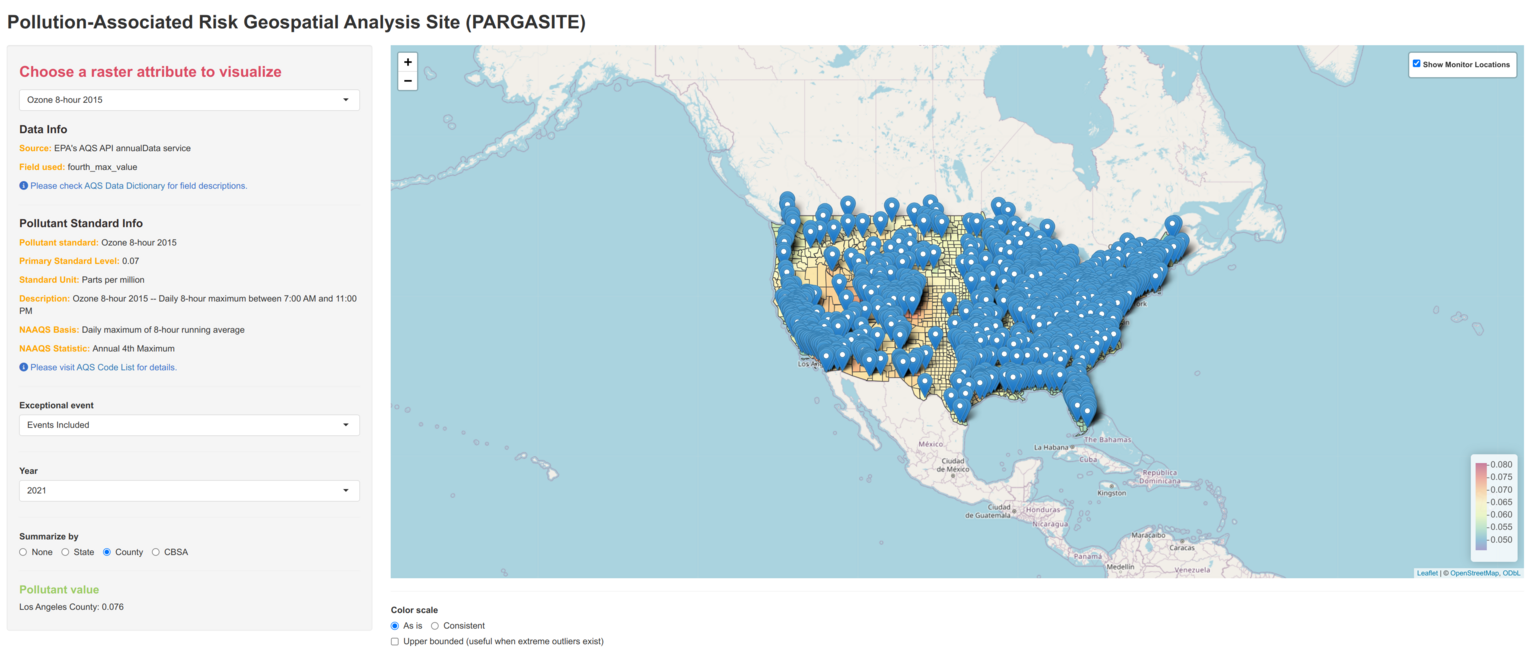
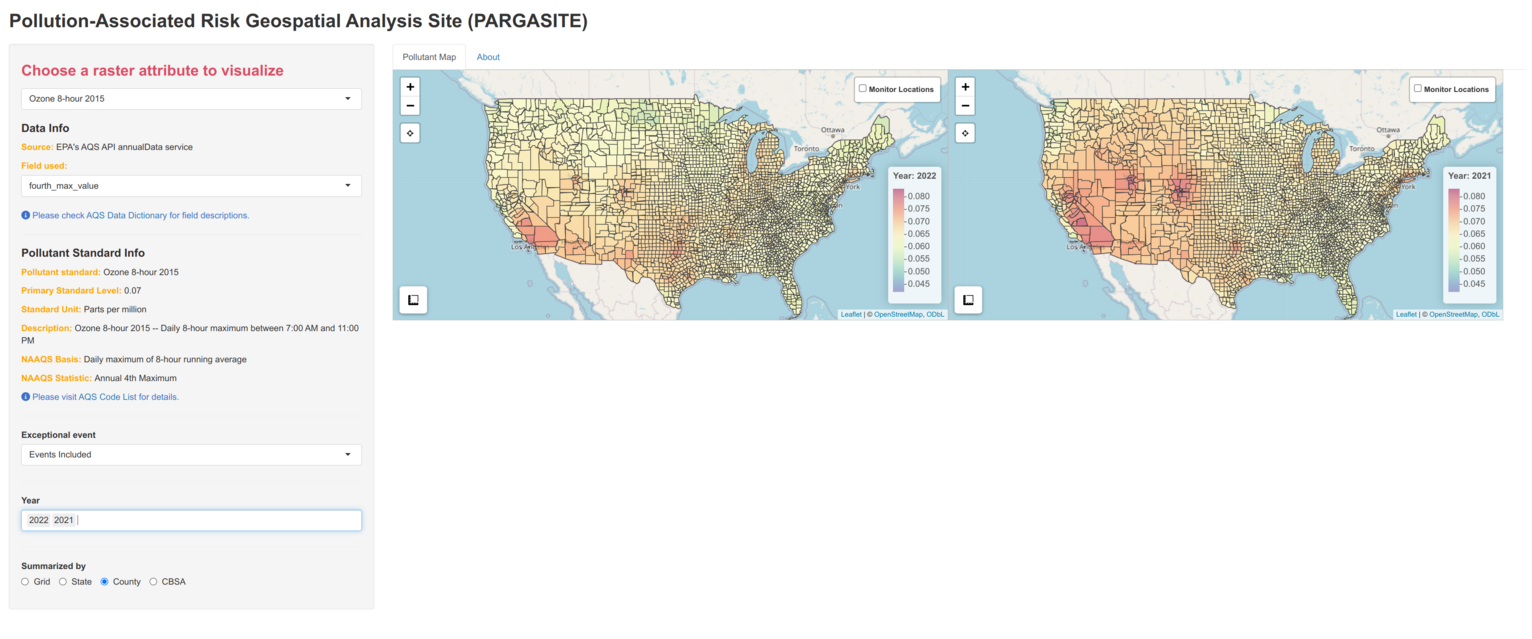
Vignette and README update

diff --git a/README.md b/README.md
@@ -1,20 +1,20 @@
 # PARGASITE
 
-Pollution-Associated Risk Geospatial Analysis SITE (PARGASITE) is an R package
-to estimate and visualize major pollutant levels (CO, NO2, SO2, Ozone, PM2.5 and
-PM10) covering the conterminous United States at user-defined time ranges. It
-provides a function that automatically retrieves pollutant data via the
-Environmental Protection Agency’s (EPA) Air Quality System (AQS) API service,
+Pollution-Associated Risk Geospatial Analysis Site (PARGASITE) offers tools to
+estimate and visualize levels of major pollutants (CO, NO2, SO2, Ozone, PM2.5
+and PM10) across the conterminous United States for user-defined time ranges. It
+helps users to automatically retrieves pollutant data from the Environmental
+Protection Agency’s (EPA) Air Quality System (AQS) API service. PARGASITE
 filters the data by exceptional event (e.g., wildfire) status, performs spatial
 interpolations, and summarizes pollutant concentrations by geographic boundaries
-including State, County, and Core-Based Statistical Area (CBSA). It also offers
-a Shiny application to interactively visualize pollutant levels and to easily
-check the air quality status of a given location over time relative to the level
-of the National Ambient Air Quality Standards (NAAQS).
+including state, county, and Core-Based Statistical Area (CBSA). It also offers
+a Shiny application for interactively visualization of pollutant levels and
+easily checking of air quality status for a given location over time relative to
+the National Ambient Air Quality Standards (NAAQS).
 
-The PARGASITE package has been re-designed due to the deprecation of the rgdal
-package, and thus, it is not compatible with the previous version. Please check
-the v1 branch if you want to use the old interface.
+The PARGASITE package has been redesigned due to the deprecation of the rgdal
+package. As a result, it is not compatible with the previous version. If you
+want to use the old interface, please check out the v1 branch.
 
 # Getting Started
 
@@ -22,9 +22,9 @@ the v1 branch if you want to use the old interface.
 
 In R session, please type
 
-``` r
-## Install from Github
-remotes::install_github("HimesGroup/pargasite")
+```{r setup}
+## Install from CRAN
+install.packages("pargasite")
 
 ## Load pargasite pacakge
 library(pargasite)
@@ -41,7 +41,10 @@ API](https://aqs.epa.gov/aqsweb/documents/data_api.html), users need to register
 API service first. Please check the raqs package to create an account and set up
 email and key for the current R session.
 
-``` r
+```{r api service}
+if (!requireNamespace("raqs", quietly = TRUE)) {
+  install.packages("raqs")
+}
 library(raqs)
 
 ## Please use your eamil address to create an account
@@ -58,7 +61,7 @@ based on pollutant standards, creates regular grid covering the conterminous US,
 and performs spatial interpolation on the grid. For spatial interpolation, the
 AQS data is projected to EPSG:6350 (NAD83 CONUS Albers).
 
-``` r
+```{r create pargasite data}
 ## Ozone concentrations based on 20km x 20km grid over the conterminous US
 ozone20km <- create_pargasite_data(
   pollutant = "Ozone", event_filter = "Events Included", year = 2021:2022,
@@ -77,7 +80,7 @@ for the details.
 
 You could also create other pollutant data cubes and combine them.
 
-``` r
+```{r combine data cubes}
 ## CO concentrations
 co20km <- create_pargasite_data(
   pollutant = "CO", event_filter = "Events Included", year = 2021:2022,
@@ -92,32 +95,31 @@ combined <- c(ozone20km, co20km)
 
 To visualize a pollutant data cube, launch the shiny app with
 
-``` r
-run_pargasite(combined, summarize_by = c("state", "county", "cbsa"))
+```{r, launch shiny app}
+run_pargasite(combined)
 ```
-
 The system's default web browser will be launched automatically after the app is
 started.
 
-On the left panel, a user can choose a pollutant attribute, event filter, and
-year to visualize. Relevant pollutant standard information will be provided. A
-pollutant value will be printed at the bottom left in response to a mouse click
-event for a specific location. For the color scale menu, “As is” selects colors
-based on the currently selected data, whereas “Consistent” picks ones that have
-the same range across different times and event filters for easy comparisons.
-The “Upper bounded” checkbox can be useful when color distortion is expected due
-to extreme outliers.
+The left panel allows users to select a pollutant attribute, filter events, and
+choose years for visualization. Relevant pollutant standard information will
+also be provided.
 
-![](vignettes/pargasite1.png)
+![](vignettes/pargasite1.png){width=100%}
 
-We are often interested in pollutant levels by geographic boundaries. A user can
-display summarized values using the "summarize_by" app menu, which provides
-areal mean either by State, County, or Core Based Statistical Area (CBSA).
+<br/>
 
-![](vignettes/pargasite2.png)
+Users can summarize data by geographical area using the "Summarized By" menu in
+the app. This menu allows selection of areal means for states, counties, or Core
+Based Statistical Areas (CBSAs).
 
-In addition, clicking "Show Monitor Locations" will returns all monitors operated
-in a given year.
+![](vignettes/pargasite2.png){width=100%}
 
-![](vignettes/pargasite3.png)
+<br/>
 
+To view historical pollutant level trends, select multiple years from the app
+menu.
+
+<br/>
+
+![](vignettes/pargasite3.png){width=100%}
